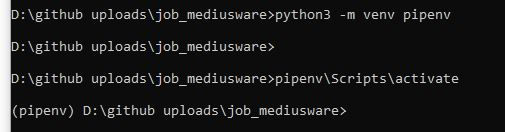
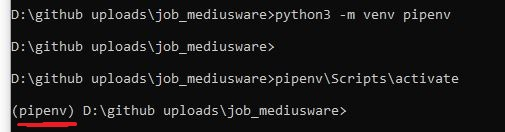
update demo pic

Changed region(s): [[0.0297, 0.9091, 0.1782, 0.9697]]

diff --git a/virtual env/README.md b/virtual env/README.md
@@ -11,3 +11,8 @@ $ pipenv\Scripts\activate
 $
 Example:
 <img src="img.JPG" alt="alt" width="100%">
+
+### we can deactivate the virtual env by"
+$ pipenv\Scripts\deactivate
+$
+
